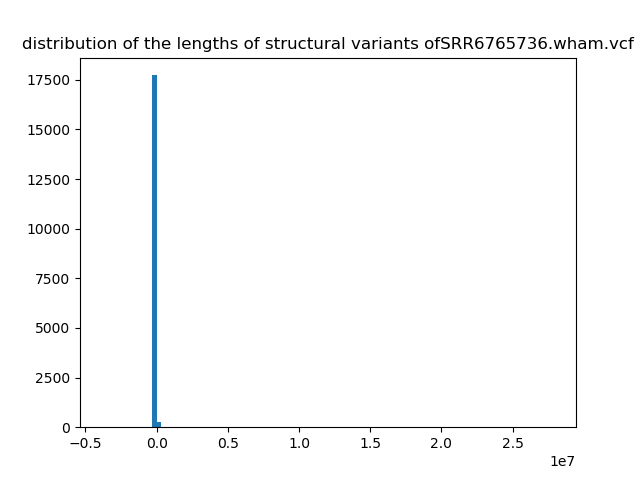
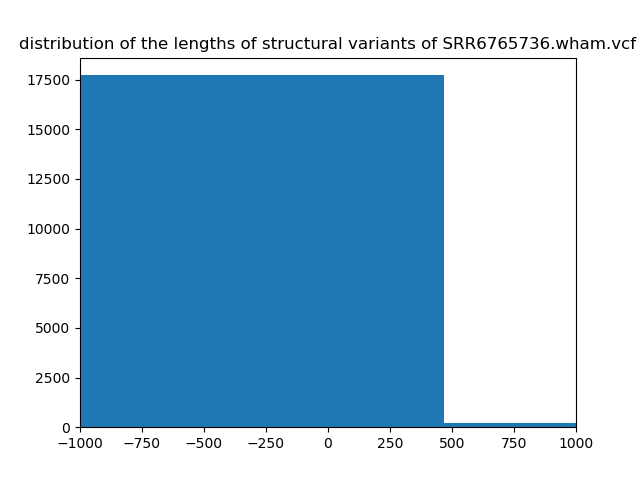
q4 more tries

diff --git a/plot_q4.py b/plot_q4.py
@@ -12,6 +12,7 @@ for i in raw:
     except:
         print(i)
 
-plt.hist(toplot,bins=100)
-plt.title("distribution of the lengths of structural variants of" + out)
+plt.hist(toplot,bins=1000)
+plt.xlim(-1000,1000)
+plt.title("distribution of the lengths of structural variants of " + out)
 plt.savefig(out +".q4.png")
